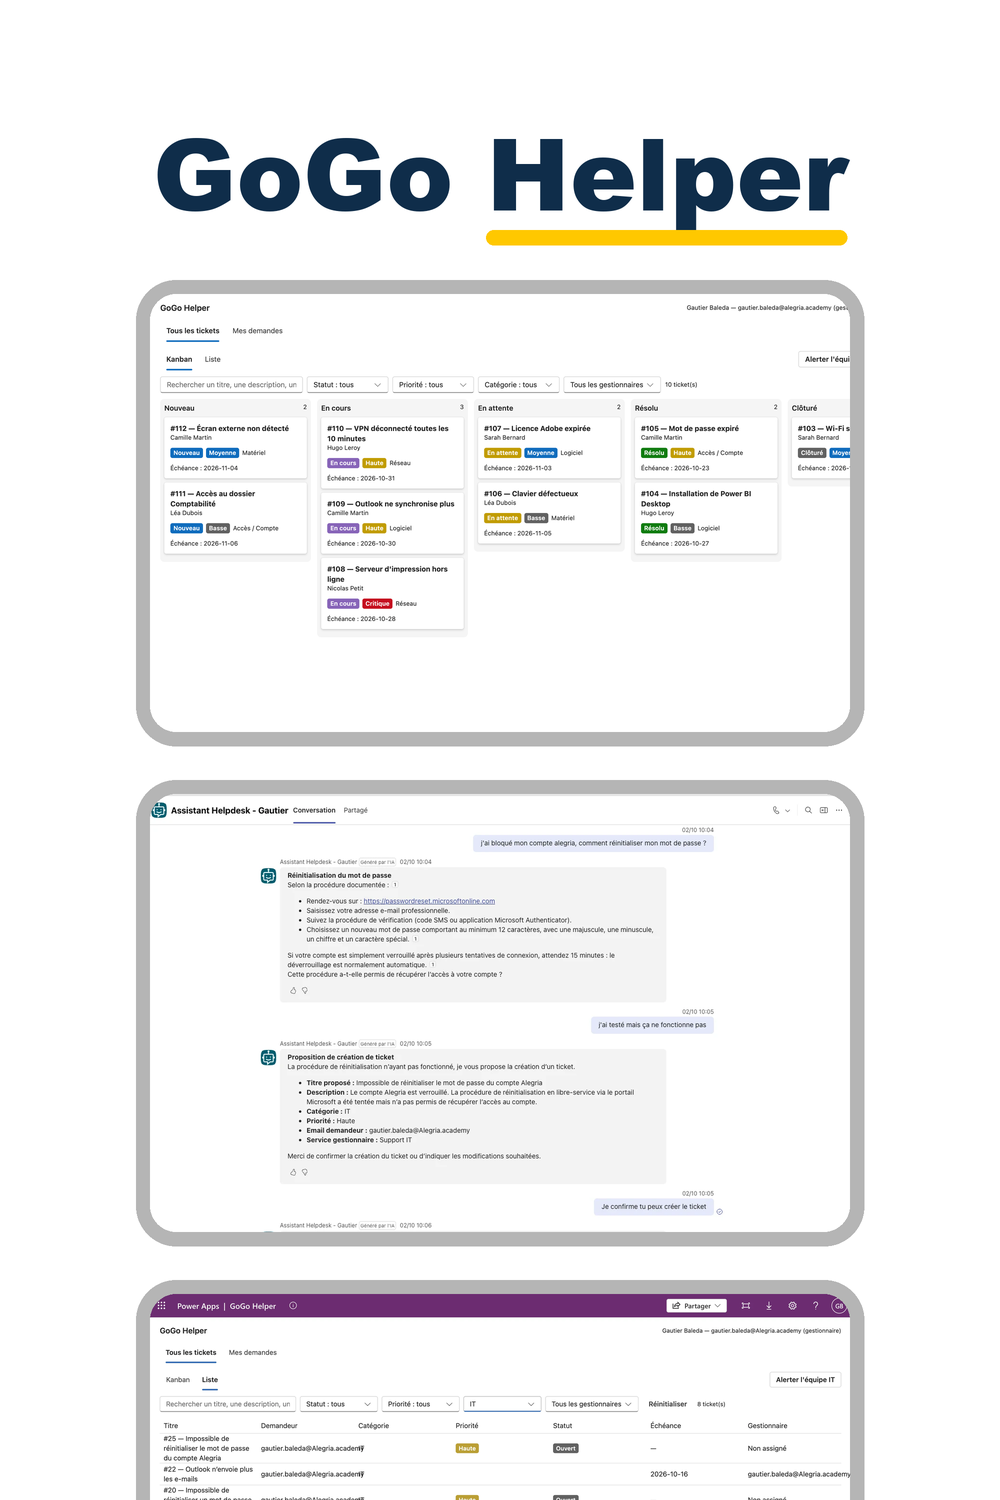
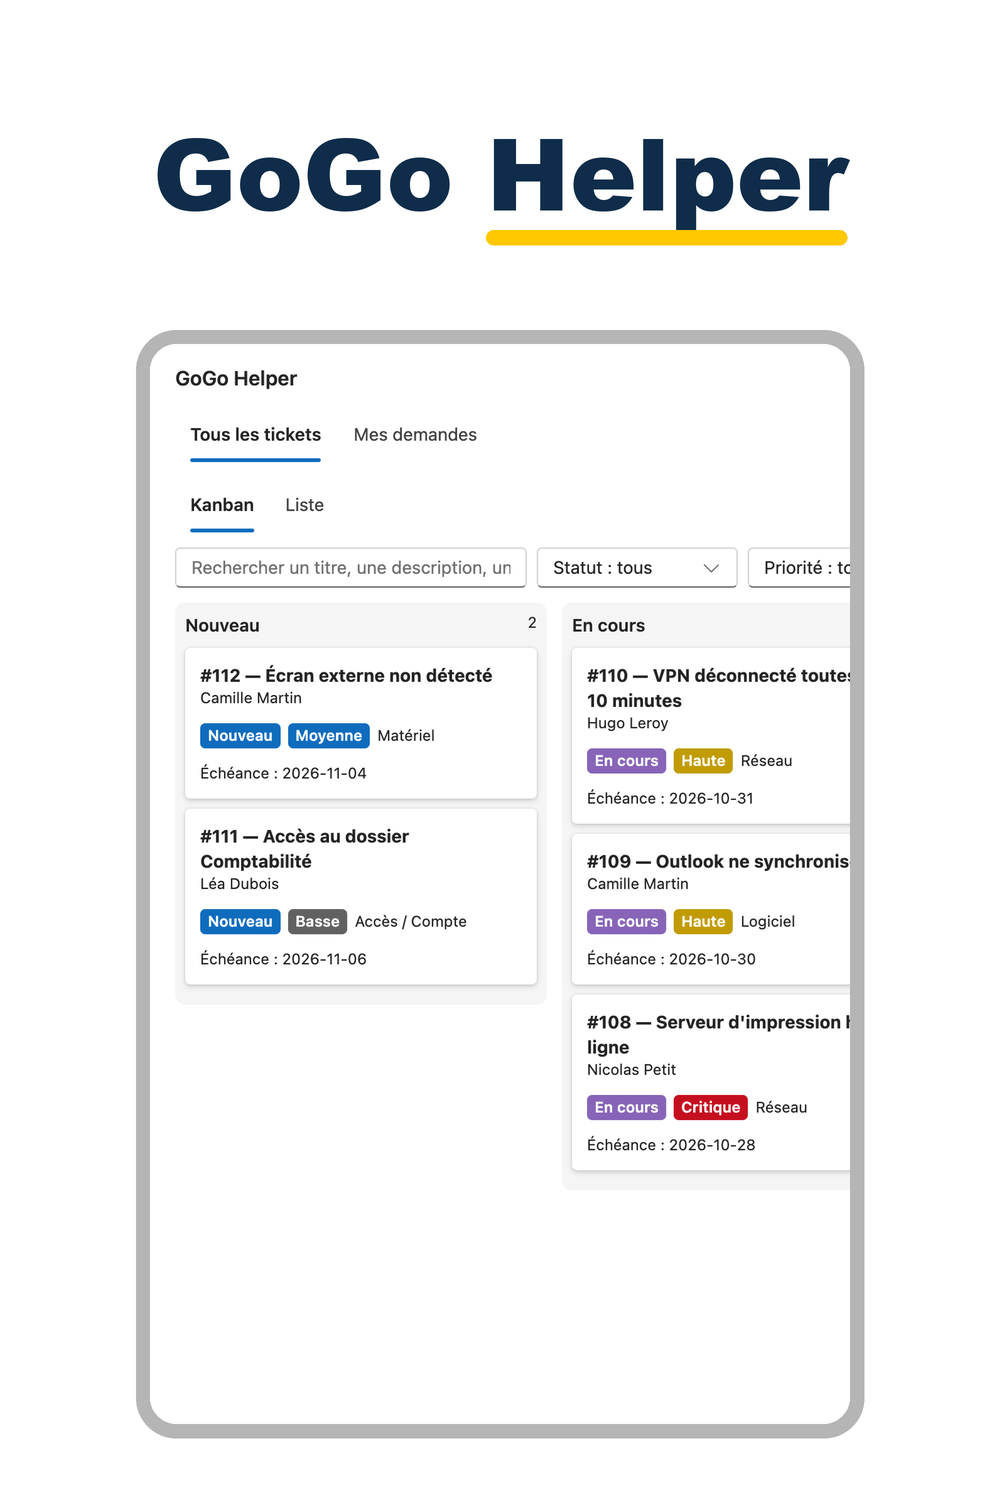
feat: visuel dédié à la page projet, GoGo Helper en kanban seul sur l'accueil
Nouveau champ Keystatic pageImage (repli sur hoverImage). GoGo Helper :
kanban seul au survol de l'accueil, kanban + assistant Copilot sur la page projet.

Changed region(s): [[0.124, 0.184, 0.868, 1.0], [0.775, 0.276, 0.868, 0.3373], [0.713, 0.368, 0.837, 0.3987]]

diff --git a/portfolio-next/app/projets/[slug]/page.tsx b/portfolio-next/app/projets/[slug]/page.tsx
@@ -63,6 +63,7 @@ export default async function Page({ params }: { params: Promise<{ slug: string 
     notFound();
     return null;
   }
+  const heroImage = project.pageImage ?? project.hoverImage;
 
   const [problematique, approche, descriptionLongue] = await Promise.all([
     project.problematique(),
@@ -102,10 +103,10 @@ export default async function Page({ params }: { params: Promise<{ slug: string 
                 <TechTag key={tag} tag={tag} />
               ))}
             </div>
-            {project.hoverImage ? (
+            {heroImage ? (
               <div className="relative mx-auto mt-10 aspect-[2/3] w-full max-w-[320px] overflow-hidden rounded-2xl">
                 <Image
-                  src={project.hoverImage}
+                  src={heroImage}
                   alt={project.longName}
                   fill
                   sizes="320px"

diff --git a/portfolio-next/keystatic.config.ts b/portfolio-next/keystatic.config.ts
@@ -36,6 +36,12 @@ export default config({
           directory: "public/images/projects/hover",
           publicPath: "/images/projects/hover/",
         }),
+        pageImage: fields.image({
+          label: "Visuel de la page projet",
+          description: "Format portrait 2:3 (ex. 1000x1500px), affiché en haut de la page projet. Si vide, le visuel au survol est utilisé.",
+          directory: "public/images/projects/page",
+          publicPath: "/images/projects/page/",
+        }),
         descriptionLongue: fields.document({
           label: "Description longue",
           description: "Décrit plus en détail ce que fait la solution, fonctionnellement.",

diff --git a/portfolio-next/content/projects.ts b/portfolio-next/content/projects.ts
@@ -16,6 +16,7 @@ export type Project = {
   longName: string;
   description: string;
   hoverImage: string | null;
+  pageImage: string | null;
   descriptionLongue: () => Promise<DocumentElement[]>;
   tags: string[];
   bg: string;
@@ -53,6 +54,7 @@ function toProject(slug: string, entry: Awaited<ReturnType<typeof reader.collect
     longName: entry!.longName,
     description: entry!.description,
     hoverImage: entry!.hoverImage ?? null,
+    pageImage: entry!.pageImage ?? null,
     descriptionLongue,
     tags: [...entry!.tags],
     bg: entry!.bg,

diff --git a/portfolio-next/components/site/Realisations.test.tsx b/portfolio-next/components/site/Realisations.test.tsx
@@ -11,6 +11,7 @@ const projects: ProjectSummary[] = [
     longName: "Projet Un",
     description: "Description courte.",
     hoverImage: null,
+    pageImage: null,
     tags: ["No-code"],
     bg: "#1A1A2E",
     textColor: "#FFFFFF",
